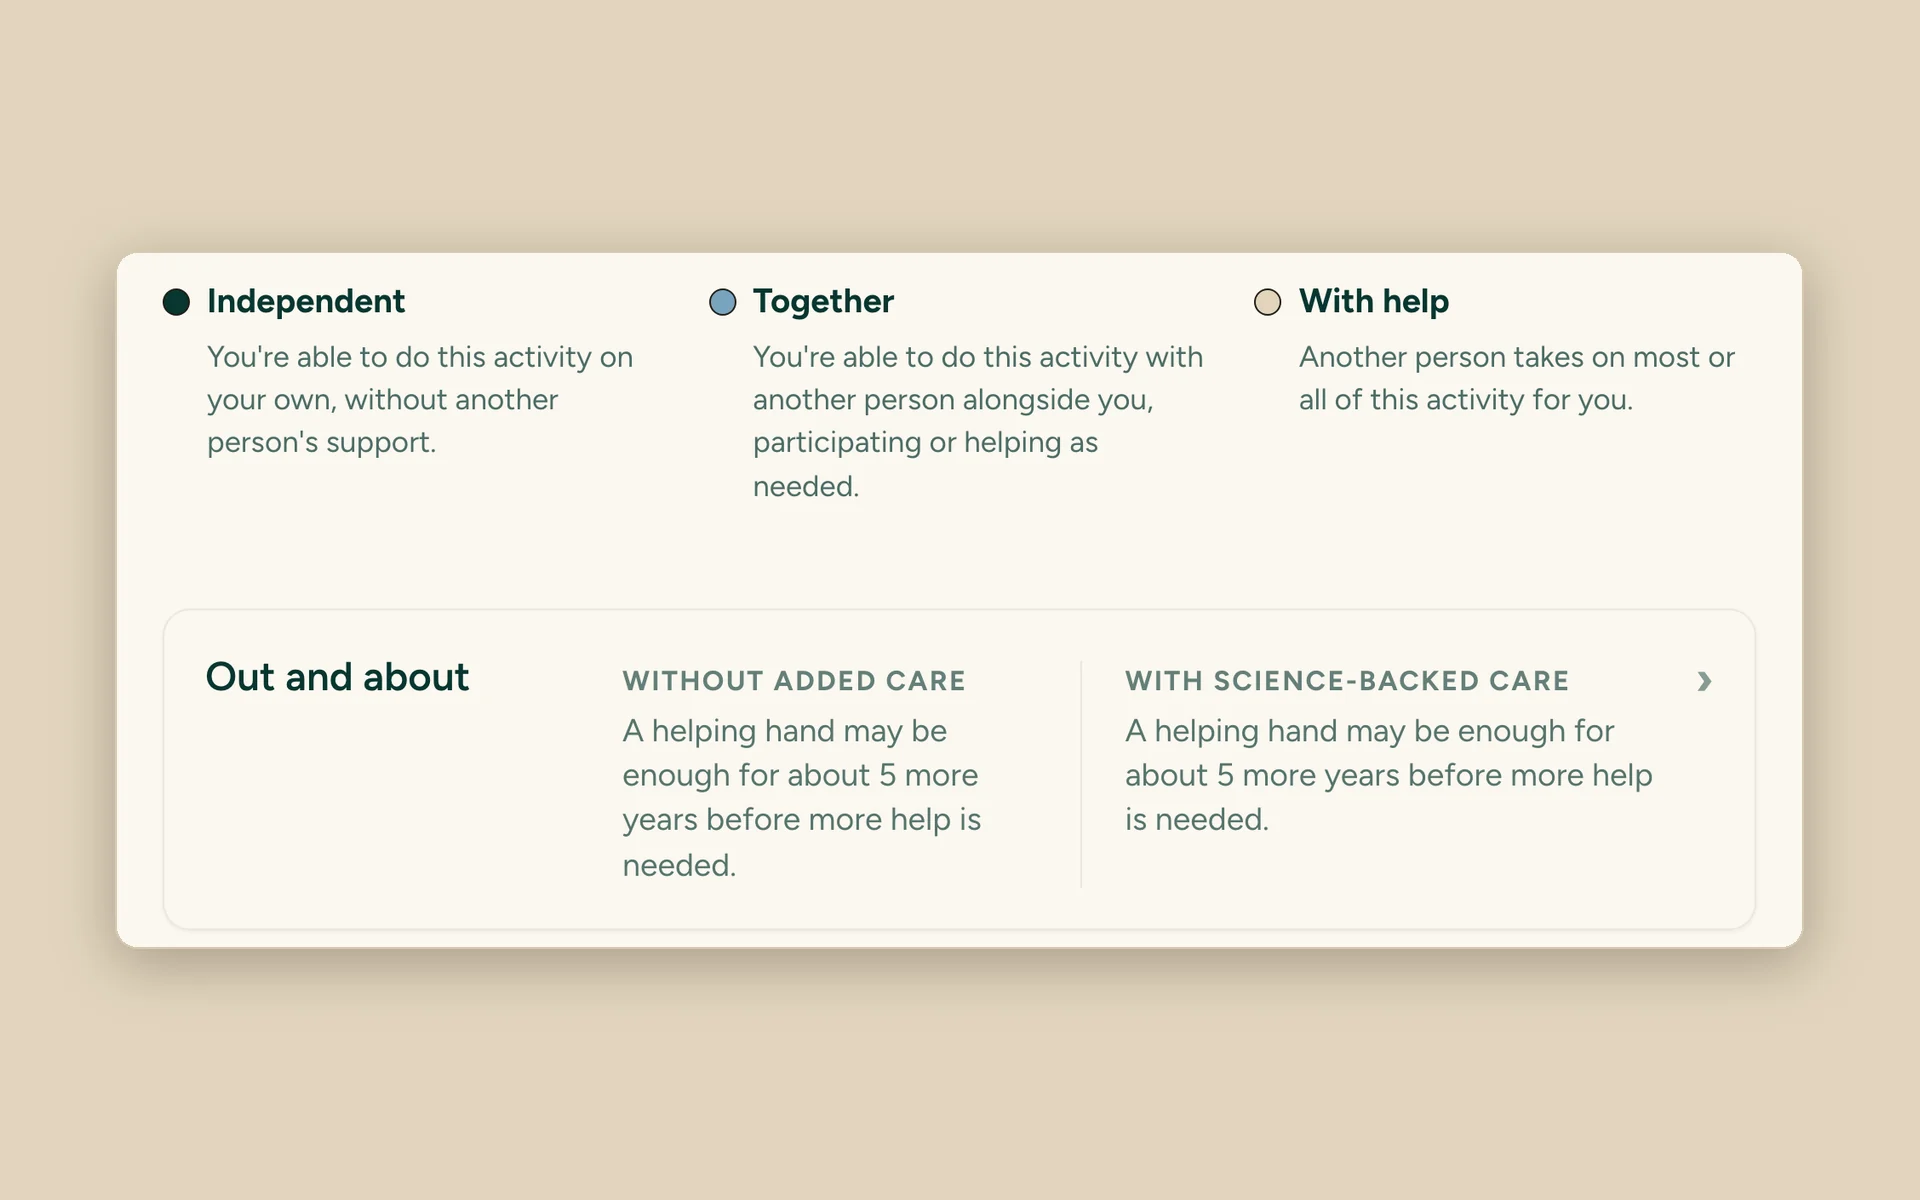
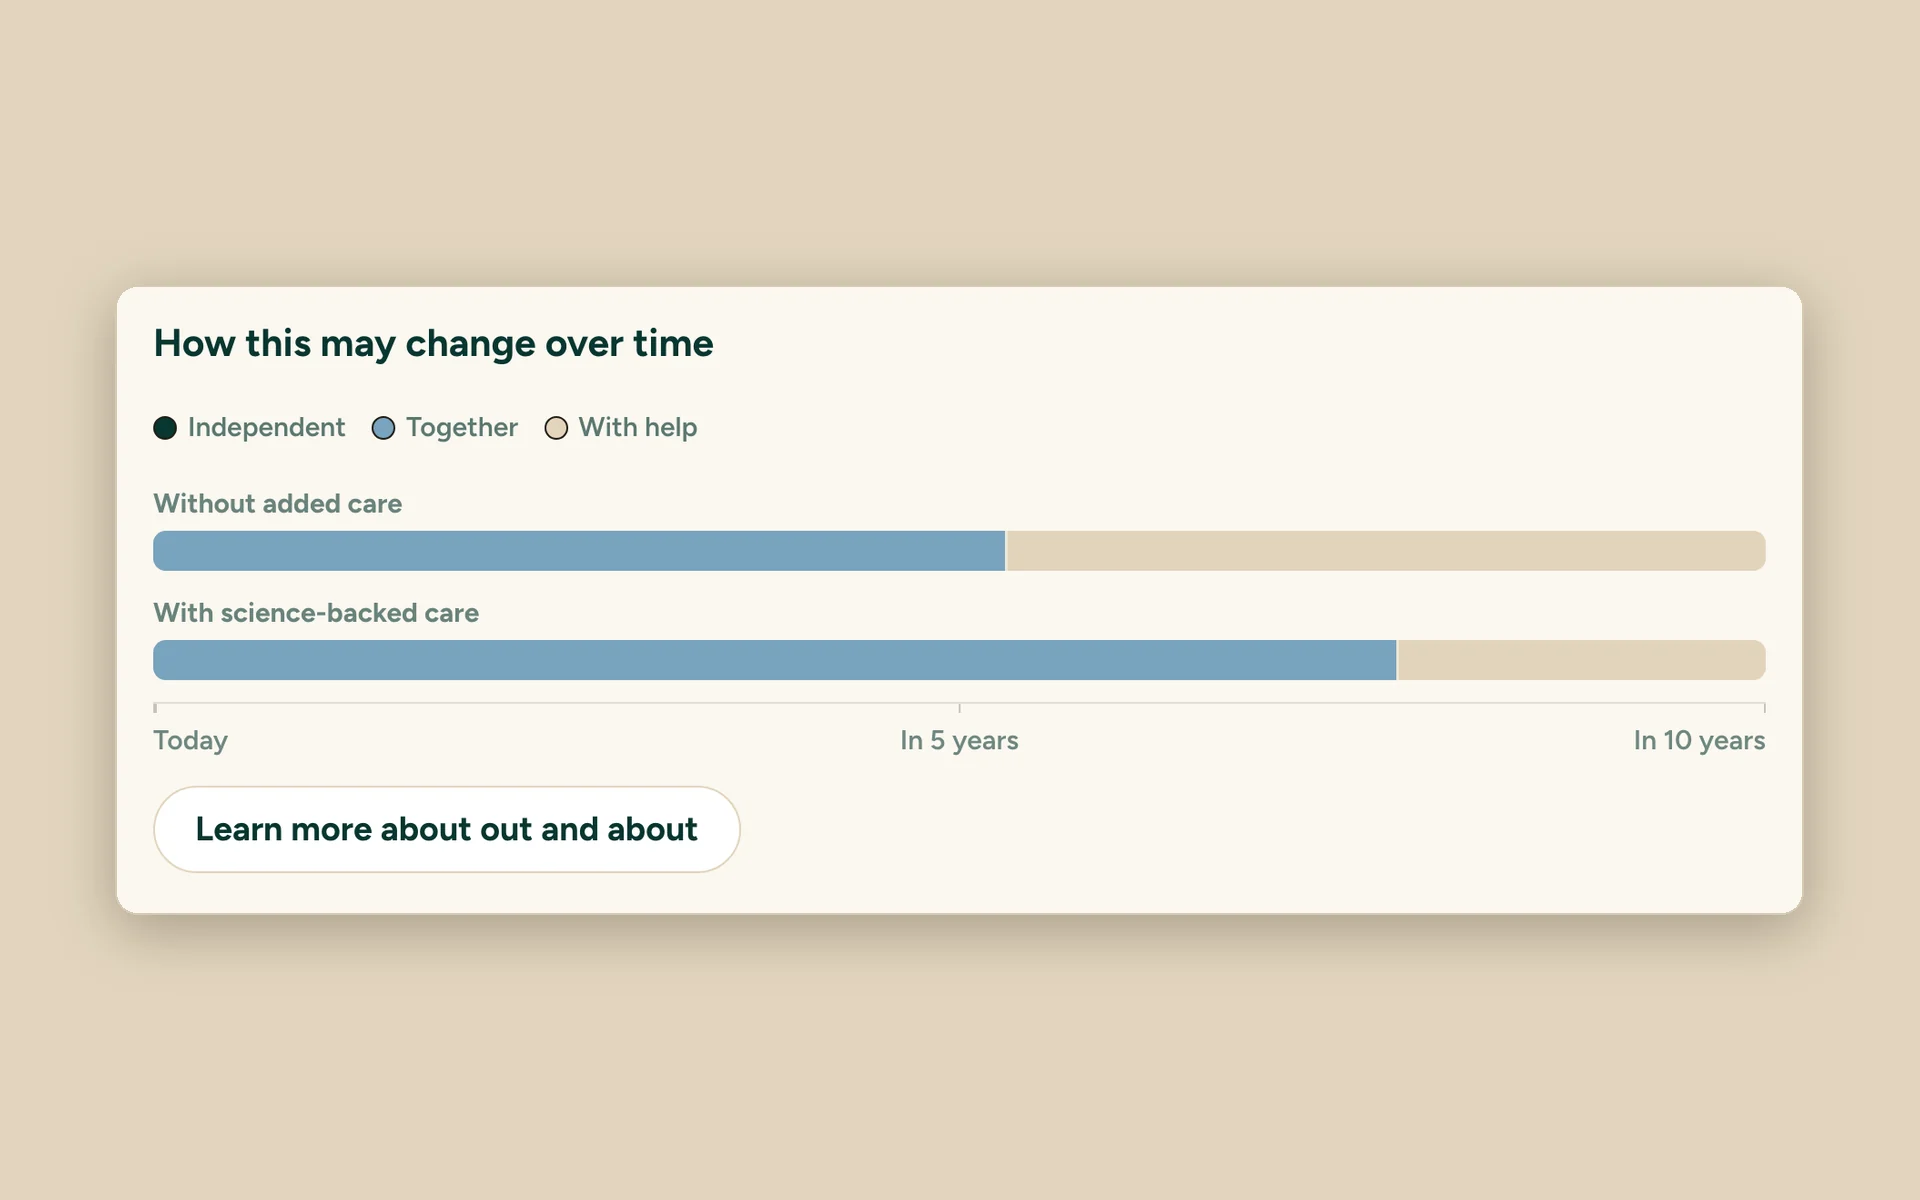
feat(digital-twin): memory question screen and everyday-life timeline
- Step 1 now shows the tool's plain memory question ("Where would you place
  yourself today?", slider at "Mild changes or better") instead of the
  education question.
- The everyday-life step shows the report's "How this may change over time"
  timeline for getting out and about: without care vs with care, today to
  10 years. The "about 5 vs 8 more years" text line is left out so the page
  makes no years-gained claim.

Changed region(s): [[0.0625, 0.185, 0.9375, 0.8017], [0.0938, 0.6167, 0.125, 0.6475]]

diff --git a/src/content/pages/digitalTwin.ts b/src/content/pages/digitalTwin.ts
@@ -45,7 +45,7 @@ const steps: JourneyStage[] = [
       "It opens in a new tab. Tell us who it is for. Then answer questions about memory, mood, and health. It takes about 10 minutes, and you can stop and come back.",
     image: "/assets/twin-report-question.webp",
     imageAlt:
-      "Example question screen. It asks “What is the highest level of education you completed?” with large answer buttons, and a progress bar shows phase 2 of 7.",
+      "Example question screen. It asks “Where would you place yourself today?” A slider is set to “Mild changes or better”: daily life carries on as usual.",
   },
   {
     kicker: "See",
@@ -60,10 +60,10 @@ const steps: JourneyStage[] = [
     kicker: "Everyday life",
     title: "See what it means for daily life.",
     body:
-      "The report also explains the years in terms of everyday life. It looks at things like getting out and about, money and paperwork, and the kitchen. For each, it shows if it may be done on your own, together with someone, or with help.",
+      "The report also explains the years in everyday terms, like getting out and about, money and paperwork, and the kitchen. A timeline shows when each may be done on your own, together with someone, or with help. It shows this with care and without it.",
     image: "/assets/twin-report-daily-life.webp",
     imageAlt:
-      "Example everyday-life view for a sample profile. A key explains independent, together, and with help. For getting out and about, it says a helping hand may be enough for about 5 more years before more help is needed.",
+      "Example everyday-life timeline for getting out and about, for a sample profile. Two bars run from today to 10 years. With science-backed care, the stage of doing things together with someone lasts longer before more help is needed.",
   },
   {
     kicker: "Compare",
